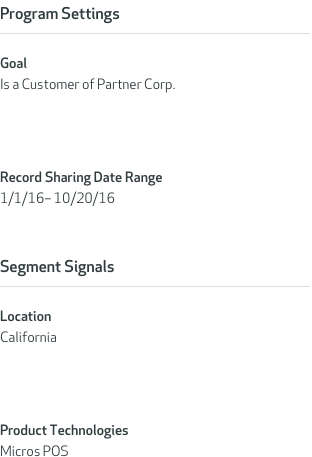
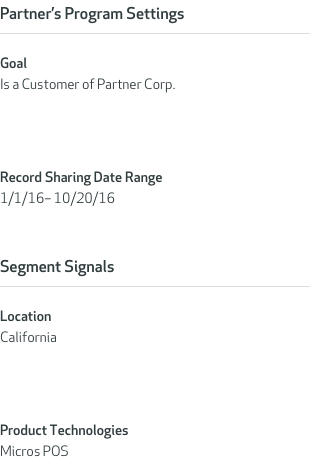
Changing naming

Changed region(s): [[0.0288, 0.0, 0.6058, 0.0613]]

diff --git a/rcx/California-Healthcare.framer/framer/framer.generated.js b/rcx/California-Healthcare.framer/framer/framer.generated.js
@@ -3091,7 +3091,7 @@ window.__imported__["Chart11-ForDemo1@1x/layers.json.js"] = [
 						"layerFrame": {
 							"x": 322,
 							"y": 357,
-							"width": 506,
+							"width": 511,
 							"height": 160
 						},
 						"visible": true,
@@ -3103,7 +3103,7 @@ window.__imported__["Chart11-ForDemo1@1x/layers.json.js"] = [
 							"frame": {
 								"x": 322,
 								"y": 357,
-								"width": 506,
+								"width": 511,
 								"height": 160
 							}
 						},
@@ -3423,17 +3423,17 @@ window.__imported__["Chart11-ForDemo1@1x/layers.json.js"] = [
 								"originalName": "Group 3",
 								"maskFrame": null,
 								"layerFrame": {
-									"x": 503,
+									"x": 487,
 									"y": 357,
-									"width": 71,
-									"height": 15
+									"width": 103,
+									"height": 12
 								},
 								"visible": true,
 								"metadata": {
 									"opacity": 1,
-									"string": "Overlapping",
+									"string": "Common Records",
 									"css": [
-										"/* Overlapping: */",
+										"/* Common Records: */",
 										"font-family: ApexNew-Book;",
 										"font-size: 14px;",
 										"color: #303B3E;",
@@ -3443,10 +3443,10 @@ window.__imported__["Chart11-ForDemo1@1x/layers.json.js"] = [
 								"image": {
 									"path": "images/Layer-Group_3-nunfmzi2.png",
 									"frame": {
-										"x": 503,
+										"x": 487,
 										"y": 357,
-										"width": 71,
-										"height": 15
+										"width": 103,
+										"height": 12
 									}
 								},
 								"children": []

diff --git a/rcx/California-Healthcare.framer/imported/Chart11-ForDemo1@1x/layers.json.js b/rcx/California-Healthcare.framer/imported/Chart11-ForDemo1@1x/layers.json.js
@@ -601,7 +601,7 @@ window.__imported__["Chart11-ForDemo1@1x/layers.json.js"] = [
 						"layerFrame": {
 							"x": 322,
 							"y": 357,
-							"width": 506,
+							"width": 511,
 							"height": 160
 						},
 						"visible": true,
@@ -613,7 +613,7 @@ window.__imported__["Chart11-ForDemo1@1x/layers.json.js"] = [
 							"frame": {
 								"x": 322,
 								"y": 357,
-								"width": 506,
+								"width": 511,
 								"height": 160
 							}
 						},
@@ -933,17 +933,17 @@ window.__imported__["Chart11-ForDemo1@1x/layers.json.js"] = [
 								"originalName": "Group 3",
 								"maskFrame": null,
 								"layerFrame": {
-									"x": 503,
+									"x": 487,
 									"y": 357,
-									"width": 71,
-									"height": 15
+									"width": 103,
+									"height": 12
 								},
 								"visible": true,
 								"metadata": {
 									"opacity": 1,
-									"string": "Overlapping",
+									"string": "Common Records",
 									"css": [
-										"/* Overlapping: */",
+										"/* Common Records: */",
 										"font-family: ApexNew-Book;",
 										"font-size: 14px;",
 										"color: #303B3E;",
@@ -953,10 +953,10 @@ window.__imported__["Chart11-ForDemo1@1x/layers.json.js"] = [
 								"image": {
 									"path": "images/Layer-Group_3-nunfmzi2.png",
 									"frame": {
-										"x": 503,
+										"x": 487,
 										"y": 357,
-										"width": 71,
-										"height": 15
+										"width": 103,
+										"height": 12
 									}
 								},
 								"children": []

diff --git a/rcx/California-Healthcare-Deployed.framer/framer/framer.generated.js b/rcx/California-Healthcare-Deployed.framer/framer/framer.generated.js
@@ -3531,17 +3531,17 @@ window.__imported__["Chart11-ForDemo2@1x/layers.json.js"] = [
 								"originalName": "Group 3",
 								"maskFrame": null,
 								"layerFrame": {
-									"x": 507,
+									"x": 491,
 									"y": 357,
-									"width": 71,
-									"height": 15
+									"width": 103,
+									"height": 12
 								},
 								"visible": true,
 								"metadata": {
 									"opacity": 1,
-									"string": "Overlapping",
+									"string": "Common Records",
 									"css": [
-										"/* Overlapping: */",
+										"/* Common Records: */",
 										"font-family: ApexNew-Book;",
 										"font-size: 14px;",
 										"color: #303B3E;",
@@ -3551,10 +3551,10 @@ window.__imported__["Chart11-ForDemo2@1x/layers.json.js"] = [
 								"image": {
 									"path": "images/Layer-Group_3-mzixodey.png",
 									"frame": {
-										"x": 507,
+										"x": 491,
 										"y": 357,
-										"width": 71,
-										"height": 15
+										"width": 103,
+										"height": 12
 									}
 								},
 								"children": []

diff --git a/rcx/California-Healthcare-Deployed.framer/imported/Chart11-ForDemo2@1x/layers.json.js b/rcx/California-Healthcare-Deployed.framer/imported/Chart11-ForDemo2@1x/layers.json.js
@@ -988,17 +988,17 @@ window.__imported__["Chart11-ForDemo2@1x/layers.json.js"] = [
 								"originalName": "Group 3",
 								"maskFrame": null,
 								"layerFrame": {
-									"x": 507,
+									"x": 491,
 									"y": 357,
-									"width": 71,
-									"height": 15
+									"width": 103,
+									"height": 12
 								},
 								"visible": true,
 								"metadata": {
 									"opacity": 1,
-									"string": "Overlapping",
+									"string": "Common Records",
 									"css": [
-										"/* Overlapping: */",
+										"/* Common Records: */",
 										"font-family: ApexNew-Book;",
 										"font-size: 14px;",
 										"color: #303B3E;",
@@ -1008,10 +1008,10 @@ window.__imported__["Chart11-ForDemo2@1x/layers.json.js"] = [
 								"image": {
 									"path": "images/Layer-Group_3-mzixodey.png",
 									"frame": {
-										"x": 507,
+										"x": 491,
 										"y": 357,
-										"width": 71,
-										"height": 15
+										"width": 103,
+										"height": 12
 									}
 								},
 								"children": []
